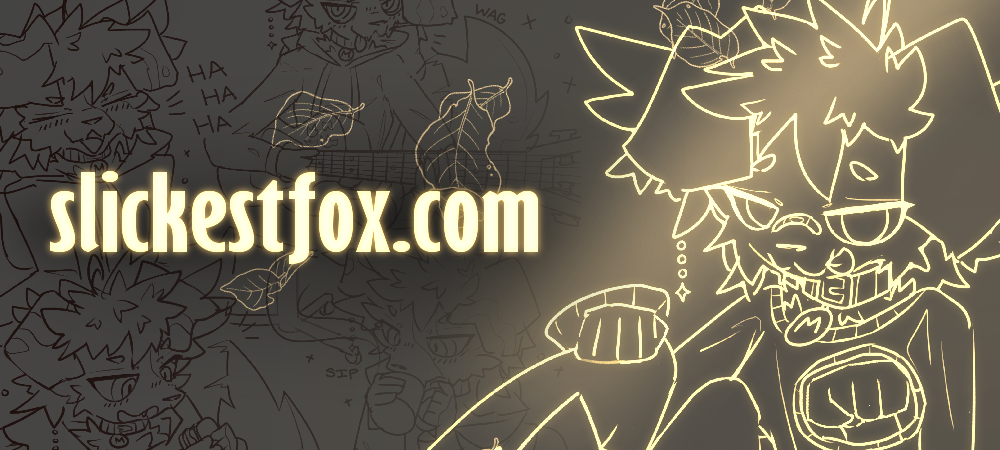
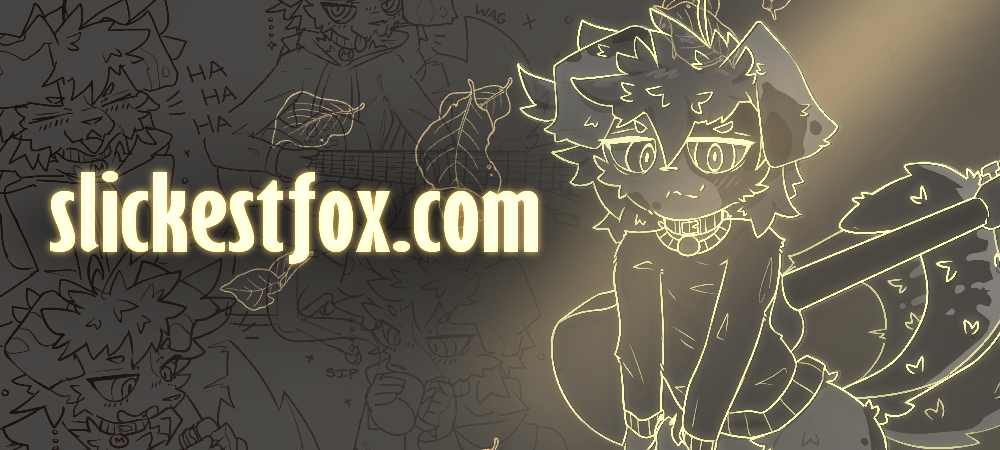
Version 1.02
Changed URL Banner
Changed Comissions Body Text

diff --git a/comissions.html b/comissions.html
@@ -57,7 +57,7 @@
         </div>
       </div>
       <div class="luna-body">
-        <p>You can request art commissions through my Twitter DM’s if I have my commission status set to open!!</p>
+        <p>If I have my commission status set to open!! You can request art commissions through my Twitter DM’s </p>
         
         <p>Here’s a doc where the terms are more readable :3 <a href="https://docs.google.com/document/d/1zNpQGxoMZdQBrpU7XLlzCokvoXq4_9g-JSp3YZvnwjU/edit?usp=sharing" target="_blank" rel="noopener noreferrer">Open the doc</a></p>
         <img class="luna-img" src="assets/macchi doodling.png" alt="small doodle" style="max-width:180px; border-radius:10px; display:block; margin:10px auto 0;"/>
@@ -215,8 +215,8 @@
         const colorStr = getComputedStyle(el).color; // rgb(...)
         const base = parseRGB(colorStr);
         // Much darker gradient shades for the page background
-        const top = rgbMul(base, 0.25);   // strong darkening
-        const bot = rgbMul(base, 0.12);   // even darker at bottom
+        const top = rgbMul(base, 0.1);   // strong darkening
+        const bot = rgbMul(base, 0.04);   // even darker at bottom
         document.body.style.background = `linear-gradient(180deg, ${top} 0%, ${bot} 100%)`;
       }
       if (document.readyState === 'loading') document.addEventListener('DOMContentLoaded', apply);
